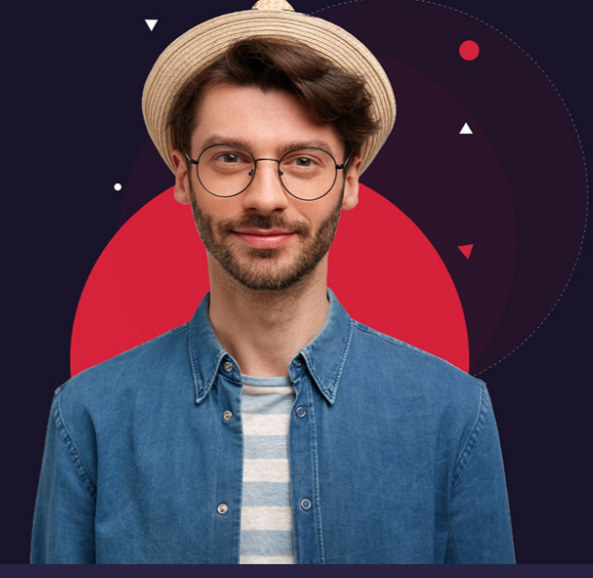
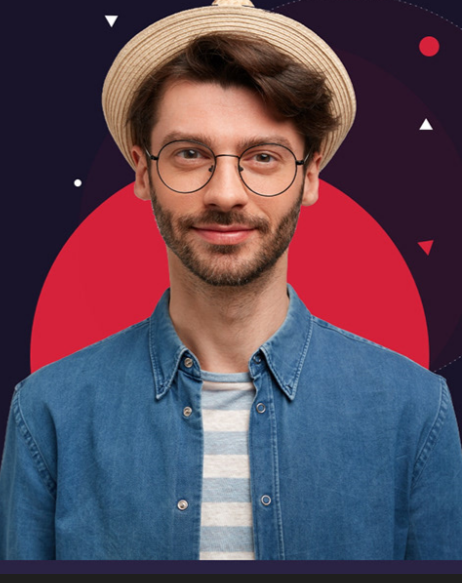
align items horizontally

diff --git a/src/Landing.js b/src/Landing.js
@@ -1,6 +1,12 @@
 import React from "react";
 //import "./index.css";
 import logo from "./Image/logo.png";
+import person from "./Image/person.png";
+import { useState } from "react";
+import {MdFacebook} from "react-icons/md";
+import {FaTwitter} from "react-icons/fa";
+import {FaLinkedinIn} from "react-icons/fa";
+//import {}
 
 function Landing(){
     return(
@@ -37,19 +43,32 @@ function Landing(){
            
         </div>
     </nav>
-    <div className="container" style={{marginTop:"6rem"}}>
+   <div className=" container d-flex justify-content-between">
+    <div className="container " style={{marginTop:"6rem"}}>
        <button className="btn btn-danger" style={{
         width: "8rem",
-        height: "2.1rem",
+        height: "2.1rem"
        }}>Welcome! I'M</button>
        <h1 style={{color: "white",fontFamily: "serif",marginTop:"1rem"}}>Abdullah Al Sharif's</h1>
        <h6 style={{color: "white"}}>Cyber Security Engineer</h6>
        <p style={{color: "white", marginTop: "2rem"}}>Lorem ipsum dolor sit amet, consectetur adipiscing elit.<br/> Nullam a nisl vel mauris egestas bibendum. Sed hendrerit,<br/> ex vel faucibus gravida, tellus sapien vestibulum velit</p>
     </div>
     <div className="container">
-       
+       <img src={person} style={{
+         width: "24rem",
+         marginTop: "4rem"
+       }}/>
+    </div>
+    <div className="container">
+       <h5 className="vertical-text" style={{color: "red", transform: "rotate(90deg)", whiteSpace: "nowrap", marginTop: "14rem"}}>FOLLOW ME ON: </h5>
+       <section className="d-flex flex-column py-5" style={{marginLeft: "9.8rem"}}>
+        <a href="https://www.facebook.com/" ><MdFacebook color = "red"/></a>
+        <a href="#"><FaTwitter color = "red"/></a>
+        <a href="#"><FaLinkedinIn color="red"/></a>
+       </section>
     </div>
   </div> 
+</div> 
     );
 }
 export default Landing;

diff --git a/src/index.css b/src/index.css
@@ -13,6 +13,6 @@ body {
   margin-right: 6rem;
 }
 .nav-item{
-  margin-right: 0.7rem;
+  margin-right: 0.6rem;
 }
 
